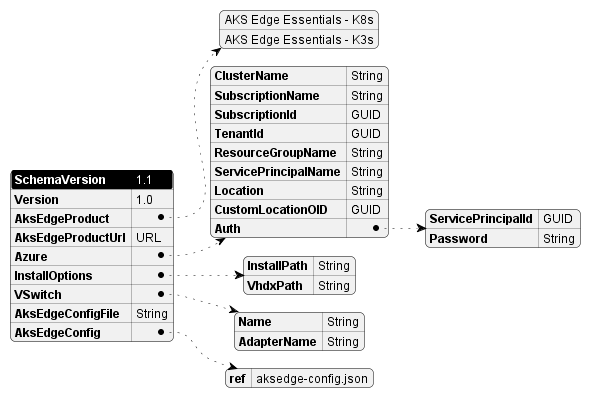
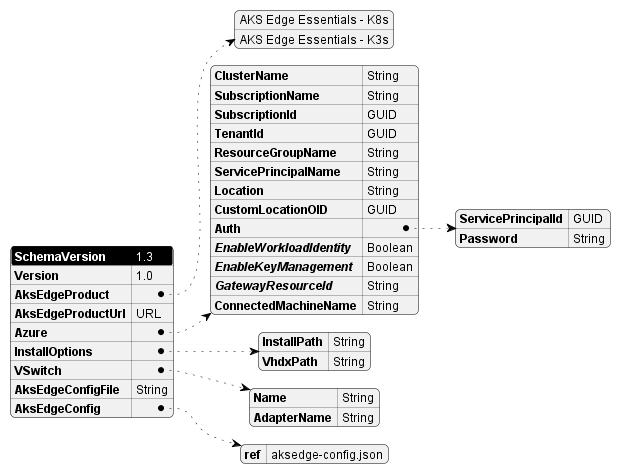
Add support for connectedmachinename parameter (#204)
* Add ConnectedMachineName option

* update schema picture

Changed region(s): [[0.0, 0.0, 1.0, 0.995]]

diff --git a/tools/modules/AksEdgeDeploy/README.md b/tools/modules/AksEdgeDeploy/README.md
@@ -16,7 +16,7 @@ The `Start-AideWorkflow` function in the modole does the following:
 
     ```json
     {
-        "SchemaVersion": "1.2",
+        "SchemaVersion": "1.3",
         "Version": "1.0",
         "AksEdgeProduct" : "AKS Edge Essentials - K3s",
         "AksEdgeConfig": {
@@ -68,12 +68,12 @@ Find below the details of the supported parameters in the json file.
 
 |Node| Parameter | Required | Type / Values | Comments |
 |-| --------- | -------- |---------------- | -------- |
-|SchemaVersion| - | Mandatory | 1.1 | Fixed value, schema version. Reserved  |
+|SchemaVersion| - | Mandatory | 1.3 | Fixed value, schema version. Reserved  |
 |Version| - | Mandatory | 1.0 | Fixed value, json instance version  |
 |AksEdgeProduct| - | Mandatory | AKS Edge Essentials - K8s <br> AKS Edge Essentials - K3s | Desired product K8s or K3s |
 |AksEdgeProductUrl| - | Optional | URL | URL to download the MSI  |
 |Azure | ClusterName | Optional | String | Name of the cluster for Arc connection. Default is hostname-distribution (abc-k8s or def-k3s)|
-|| SubscriptionName | Mandatory | GUID | Name of the Azure Subscription  |
+|| SubscriptionName | Mandatory | String | Name of the Azure Subscription  |
 || SubscriptionId | Optional | GUID | Azure Subscription ID  |
 || TenantId | Optional | GUID | Azure Tenant ID  |
 || ResourceGroupName | Mandatory | String | ResourceGroupName  |
@@ -82,7 +82,10 @@ Find below the details of the supported parameters in the json file.
 || CustomLocationOID | Optional | GUID | ObjectID for the custom location resource provider  |
 || `Auth`.ServicePrincipalId |Mandatory | GUID | Specify service principal appID to use|
 || `Auth`.Password |Mandatory| String | Specify the password (in clear) |
-|| EnableWorkloadIdentity |Optional| Boolean | Enable secure workload access to azure resource |
+|| EnableWorkloadIdentity |Optional| Boolean | Enable secure workload access to azure resource (only for AIO)|
+|| EnableKeyManagement |Optional| Boolean | Enables Key management (key rotation) (only for AIO)|
+|| GatewayResourceId |Optional| String | Resource Id for the Arc Gateway resource (only for AIO)|
+|| ConnectedMachineName |Optional| String | Specify the resource name for connected machine agent. Default is hostname |
 |InstallOptions| InstallPath | Optional | String |  Path to install the product  |
 || VhdxPath | Optional | String | Path to store the vhdx files  |
 |VSwitch| Name | Optional | String | Name for the external switch, mandatory for ScalableCluster|
